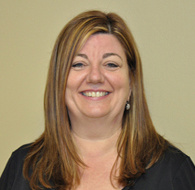
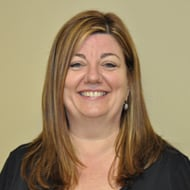
Updates instructor images, updates coures pages to put past courses in grayscale

diff --git a/src/templates/eventTemplate.js b/src/templates/eventTemplate.js
@@ -99,6 +99,17 @@ const EventTemplate = ({ data: course , location }) => {
     url: `${location.href}`
   }
 
+  const grayscale = () => {
+    // console.log('grayscale');
+    const now = moment();
+    const eventDate = moment(course.markdownRemark.frontmatter.start_date);
+    if (now.diff(eventDate) > 0) {
+      return true
+    } else {
+      return false
+    }
+  }
+
   return (
     <Layout location={ pageMeta.location } pageType={ pageMeta.type }>
       <SEO meta={{ ...pageMeta }} />
@@ -116,7 +127,7 @@ const EventTemplate = ({ data: course , location }) => {
             xs={{ size: 12, offset: 0, order: 1 }}
             sm={{ size: 10, offset: 1 }}
             md={{ size: 6, offset: 3 }}
-            className="event-img">
+            className={`event-img ${!!grayscale() ? `grayscale` : null}`}>
             <CoursesImage
               alt={`Event image for ${course.markdownRemark.frontmatter.title}, ${course.markdownRemark.frontmatter.start_date}`}
               filename={course.markdownRemark.frontmatter.event_image ? course.markdownRemark.frontmatter.event_image : defaultImg}

diff --git a/src/theme/pages/course.scss b/src/theme/pages/course.scss
@@ -16,6 +16,13 @@
         margin-bottom: 0;
       }
     }
+    .event-img {
+      &.grayscale {
+        img {
+          @include grayscalelight;
+        }
+      }
+    }
     .event-desc {
       margin-top: 1.75rem;
       @include media-breakpoint-up(md) {
@@ -68,7 +75,7 @@
     // margin-bottom: 1.5rem;
   }
   img {
-    @include grayscale;
+    // @include brighten;
   }
   .btn {
     margin: 0.5rem 0 0;
